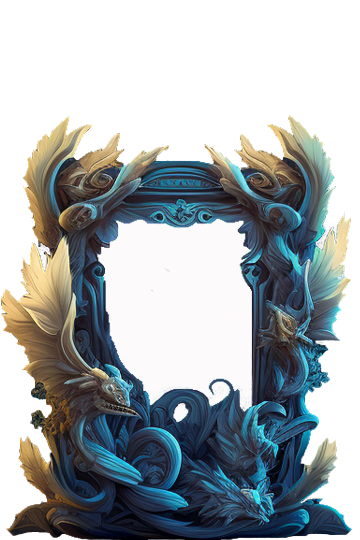
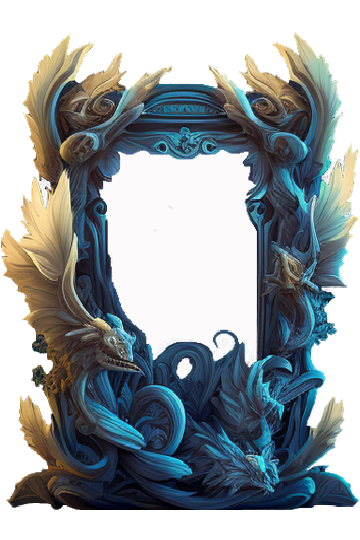
Changed borders. Added program to create borders

diff --git a/src/tcgHelper/createCard.js b/src/tcgHelper/createCard.js
@@ -2,6 +2,11 @@ const sharp = require('sharp')
 
 module.exports = {
     async createCard(comboID, cardId, borderId, newWidth, newLength, lengthShift, widthShift) {
+        // const padtop = Math.ceil((540 - newLength) / 2) - lengthShift
+        // const padbottom = Math.floor((540 - newLength) / 2) + lengthShift
+        // const padleft = Math.ceil((360 - newWidth) / 2) - widthShift
+        // const padright = Math.floor((360 - newWidth) / 2) + widthShift
+
         // Calculate the file names
         const cardPath = `${__dirname}/../../assets/cards/${cardId}.png`;
         const borderPath = `${__dirname}/../../assets/frames/${borderId}.png`;
@@ -15,10 +20,14 @@ module.exports = {
             })
             .extend({
                 // Pad the image w/ invisible pixels on all sides until its the same size as before
-                top: Math.ceil((540 - newLength) / 2) - lengthShift,
-                bottom: Math.floor((540 - newLength) / 2) + lengthShift,
-                left: Math.ceil((360 - newWidth) / 2) - widthShift,
-                right: Math.floor((360 - newWidth) / 2) + widthShift,
+                // top: Math.ceil((540 - newLength) / 2) - lengthShift,
+                // bottom: Math.floor((540 - newLength) / 2) + lengthShift,
+                // left: Math.ceil((360 - newWidth) / 2) - widthShift,
+                // right: Math.floor((360 - newWidth) / 2) + widthShift,
+                top: Math.ceil((540 - newLength) / 2),
+                bottom: Math.floor((540 - newLength) / 2),
+                left: Math.ceil((360 - newWidth) / 2),
+                right: Math.floor((360 - newWidth) / 2),
                 background: { r: 0, g: 0, b: 0, alpha: 0 }
             })
             .toBuffer()

diff --git a/src/commands/tcg/tcg.js b/src/commands/tcg/tcg.js
@@ -1,0 +1,12 @@
+const { ContextMenuCommandBuilder, ApplicationCommandType } = require('discord.js');
+
+module.exports = {
+    data: new ContextMenuCommandBuilder()
+        .setName('tcg')
+        .setType(ApplicationCommandType.User),
+    async execute(interaction, client) {
+        await interaction.reply({
+            content: `${interaction.targetUser.displayAvatarURL()}`
+        })
+    },
+};

diff --git a/src/schemas/frameSchema.js b/src/schemas/frameSchema.js
@@ -11,15 +11,8 @@ const frameSchema = new Schema({
     url: String,
     filledURL: String,
     dateAdded: String,
-    left: Number,
-    right: Number,
-    top: Number,
-    bottom: Number,
-    width: Number,
-    length: Number,
-    scale: Number,
-    newWidth: Number,
-    newLength: Number,
+    finalWidth: Number,
+    finalLength: Number,
     lengthShift: Number,
     widthShift: Number,
 })
